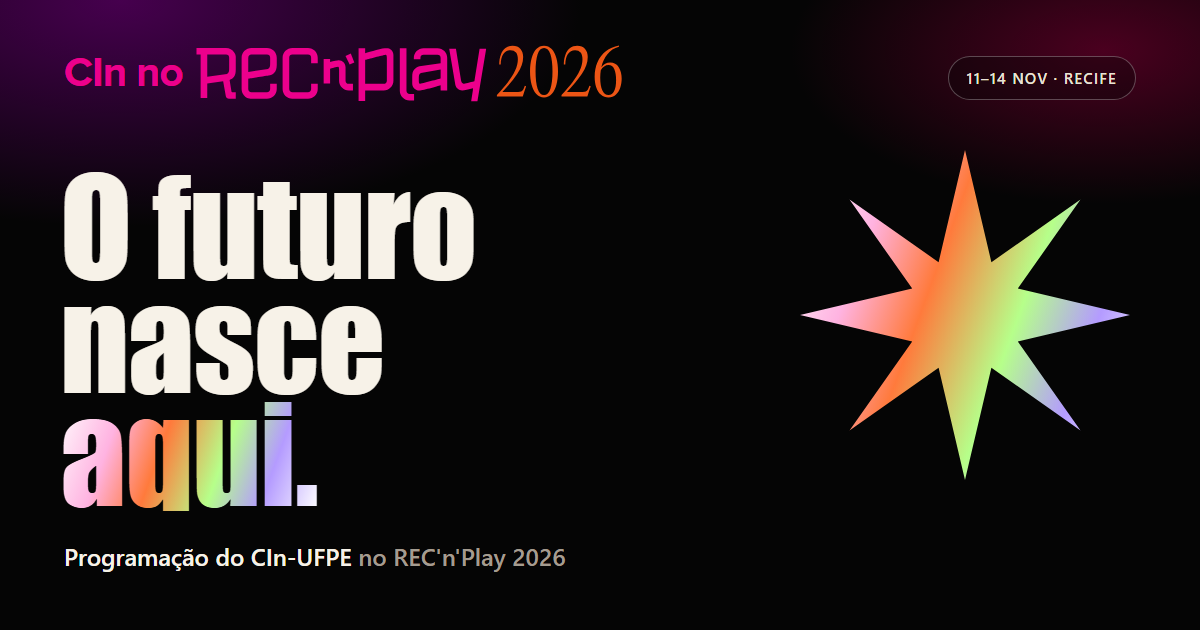
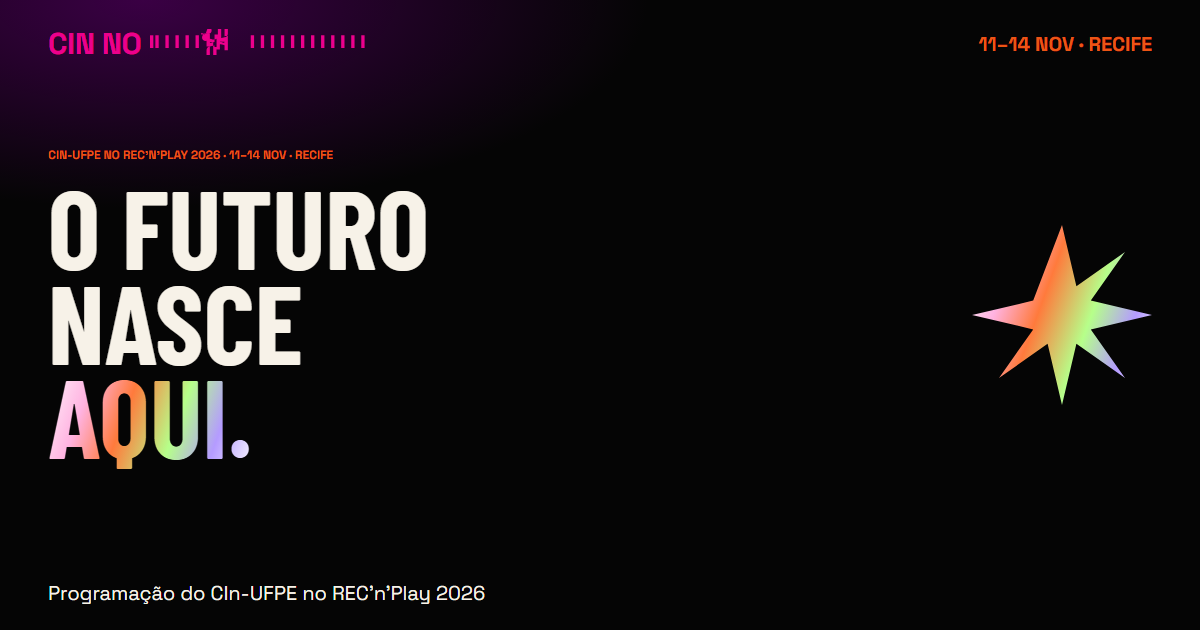
Alinha Supertalentos ao Jalan, corrige a noticia e refaz o og.png

diff --git a/cin-recplay-2026.js b/cin-recplay-2026.js
@@ -37,7 +37,8 @@
     { t:0, n:"O mar de possibilidades de uma carreira em tecnologia", p:["Letícia Pedrosa","Eduarda Santana","Byanca Silva","Karem Santos","Alany Siqueira"], h:"10:00–11:00", l:"CESAR School · Bloco A, Arquibancada", q:"Cesar School, Av. Cais do Apolo, 77, Recife - PE", g:["Carreira","Tecnologia"], d:["12"] },
     { t:0, n:"TDC Stage: adoção, cultura e letramento em IA — e se Chico Science encontrasse a inteligência artificial?", p:["Aguinaldo Flor"], h:"11:35", l:"Moinho Recife · Sala Manguezal", q:"Moinho Recife, Av. Alfredo Lisboa, 810, Recife - PE", g:["IA","Cultura"], d:["11"] },
     { t:0, n:"Construindo tecnologias de ponta: desmistificando a relação entre pós-graduação e o mercado", p:["Francisco Simões","Thifany Souza","André Buarque","Willams Costa","João Moizes"], h:"15:40–16:40", l:"E.T.E. Porto Digital · Sala 4", q:"E.T.E. Porto Digital, Av. Rio Branco, 193, Recife - PE", g:["Carreira","Pesquisa"], d:["12"] },
-    { t:0, n:"Programa Supertalentos: educação para superdotados", p:["Paulo Adeodato","Pierre Lucena","Olzeni Ribeiro","Ricardo Matheus","Carla Brolezzi"], h:"13:00–14:00", l:"Arena de Educação CESAR · Palco Externo", q:"Arena de Educação CESAR, Rua Bione, Cais do Apolo, 220, Recife - PE", g:["Educação","Inovação"], d:["12"] },
+    { t:0, n:"Supertalentos: iniciativas de apoio a jovens superdotados", p:["Paulo Adeodato","Pierre Lucena","Olzeni Ribeiro","Ricardo Matheus","Carla Brolezzi"], h:"13:00–14:00", l:"Arena de Educação CESAR · Palco Externo", q:"Arena de Educação CESAR, Rua Bione, Cais do Apolo, 220, Recife - PE", g:["Educação","Inovação"], d:["12"] },
+    { t:0, n:"Jovens supertalentos em ação: projetos de macroalgas e tecnologia", p:["Estudantes do Programa Supertalentos","Especialistas do SENAC-PE","UFPE"], h:"14:20–16:20", l:"Arena de Educação CESAR · Mezanino", q:"Arena de Educação CESAR, Rua Bione, Cais do Apolo, 220, Recife - PE", g:["Educação","Ciência"], d:["12"] },
     { t:0, n:"Mostra Supertalentos: ciência, tecnologia e resultados em exposição", p:["Paulo Adeodato","Severino Alves Júnior","Bruno Campello de Souza","Starch Melo de Souza","Ana de Cássia Monteiro de Lemos Silva","Jessica Acioly dos Santos"], h:"09:00–12:40", l:"Senac · Galeria", q:"Senac, R. do Apolo, 235, Recife - PE", g:["Educação","Ciência"], d:["13"] },
     { t:0, n:"Copiloto ou piloto? Até onde a IA pode pensar no lugar de quem programa", p:["Kiev Gama","Vinícius Garcia","Rodrigo Bonifácio","Paola Accioly"], h:"10:00–11:00", l:"E.T.E. Porto Digital · Sala 3", q:"E.T.E. Porto Digital, Av. Rio Branco, 193, Recife - PE", g:["IA","Engenharia de Software"], d:["13"] },
     { t:0, n:"Dirigindo entre dois mundos: experiências automotivas do futuro", p:["Francisco Simões","João Marcelo Teixeira","João Moizes"], h:"10:00–11:00", l:"Espaço CIn-UFPE", q:"Espaço CIn-UFPE, R. Vig. Tenório, 95, Recife - PE", g:["Mobilidade","Tecnologia"], d:["13"] },
@@ -76,11 +77,11 @@
       x:"O CIn-UFPE apresentará o Programa Supertalentos no REC’n’Play 2026, com debate, pitches e mostra nos dias 12 e 13 de novembro.",
       html:`<p>O Centro de Informática (CIn) da Universidade Federal de Pernambuco (UFPE) colocará o desenvolvimento de estudantes com superdotação intelectual em pauta no REC’n’Play 2026. Nos dias 12 e 13 de novembro, a instituição apresentará o Programa Supertalentos, conduzido pela UFPE, coordenado pelo CIn, em parceria com o Serviço Nacional de Aprendizagem Comercial em Pernambuco (SENAC-PE), o fundo Social Entrepreneurship Holding Ltda. e a AppCETech, empresa deep tech do Porto Digital.</p>
 <p>O Programa Supertalentos promove formação científica gratuita nas áreas de Ciência, Tecnologia, Engenharia e Matemática (STEM), com atividades de pesquisa, desenvolvimento e inovação. A iniciativa busca desenvolver as competências dos participantes e ampliar suas oportunidades de formação e carreira. O programa também oferece acompanhamento psicopedagógico, voltado às necessidades educacionais e emocionais dos participantes.</p>
-<p>No dia 12 de novembro, das 13h às 14h, na Arena de Educação CESAR - Garagem 01, o professor Paulo Adeodato (CIn-UFPE) participará do debate “Supertalentos: iniciativas de apoio a jovens superdotados”, ao lado de Pierre Lucena (Porto Digital), Olzeni Ribeiro (Instituto do Neurodesenvolvimento), do professor Ricardo D’Elias Matheus (Instituto Principia) e de Carla Brolezzi (Superdotação no Mapa).</p>
-<p>Na sequência, das 14h20 às 16h20, na Arena de Educação CESAR - Mezanino, estudantes participantes do programa apresentarão pitches de soluções desenvolvidas nas áreas de macroalgas e tecnologia. Já no dia 13 de novembro, das 8h30 às 12h30, a Mostra Supertalentos reunirá demonstrações práticas de projetos, experimentos e resultados conduzidos pela equipe e pelos jovens do programa, na unidade Apolo 235 do SENAC-PE.</p>
+<p>No dia 12 de novembro, das 13h às 14h, na Arena de Educação CESAR - Palco Externo, o professor Paulo Adeodato (CIn-UFPE) participará do debate “Supertalentos: iniciativas de apoio a jovens superdotados”, ao lado de Pierre Lucena (Porto Digital), Olzeni Ribeiro (Instituto do Neurodesenvolvimento), do professor Ricardo D’Elias Matheus (Instituto Principia) e de Carla Brolezzi (Superdotação no Mapa).</p>
+<p>Na sequência, das 14h20 às 16h20, na Arena de Educação CESAR - Mezanino, estudantes participantes do programa apresentarão pitches de soluções desenvolvidas nas áreas de macroalgas e tecnologia. Já no dia 13 de novembro, das 9h às 12h40, a Mostra Supertalentos reunirá demonstrações práticas de projetos, experimentos e resultados conduzidos pela equipe e pelos jovens do programa, na Galeria do SENAC-PE, no Porto Digital.</p>
 <p>O professor Paulo Adeodato, do CIn-UFPE, base tecnológica do programa, ressalta que a universidade já atua como agente de desenvolvimento e geração de riqueza para Pernambuco. Segundo ele, iniciativas como o Programa Supertalentos podem contribuir para reter talentos e a riqueza patrimonial gerada no estado, podendo essa metodologia vir a ser replicada para reter os talentos e riqueza nos seus locais de origem.</p>
 <h2>Confira a programação</h2>
-<p><strong>12 de novembro | Arena de Educação CESAR - Garagem 01</strong></p>
+<p><strong>12 de novembro | Arena de Educação CESAR - Palco Externo</strong></p>
 <p><strong>Das 13h às 14h | Debate: Supertalentos: iniciativas de apoio a jovens superdotados</strong></p>
 <p>Com Pierre Lucena (Porto Digital), o professor Paulo Adeodato (CIn-UFPE), Olzeni Ribeiro (Instituto do Neurodesenvolvimento), o professor Ricardo D’Elias Matheus (Instituto Principia) e Carla Brolezzi (Superdotação no Mapa).</p>
 <p>Entrada com inscrição prévia.</p>
@@ -88,7 +89,7 @@
 <p><strong>Das 14h20 às 16h20 | Pitches: Jovens supertalentos em ação: projetos de macroalgas e tecnologia</strong></p>
 <p>Apresentação das soluções dos estudantes, com a presença de especialistas do SENAC-PE, da UFPE e da AppCETech.</p>
 <p>Acesso por ordem de chegada.</p>
-<p><strong>13 de novembro, das 8h30 às 12h30 | Apolo 235 (apoio do SENAC-PE)</strong></p>
+<p><strong>13 de novembro, das 9h às 12h40 | SENAC-PE - Galeria (Porto Digital)</strong></p>
 <p>Mostra Supertalentos: demonstração prática de projetos, experimentos e resultados conduzidos pela equipe e pelos jovens do programa.</p>
 <h2>Sobre o Programa Supertalentos</h2>
 <p>O Programa Supertalentos é uma iniciativa conduzida pela UFPE, coordenada pelo CIn-UFPE, em parceria com o SENAC-PE, o fundo Social Entrepreneurship Holding Ltda. e a AppCETech. Seu objetivo é identificar e acompanhar estudantes de 12 a 17 anos com indicadores de superdotação intelectual, oferecendo percursos de aprofundamento e acompanhamento pedagógico. Por meio da Aprendizagem Baseada em Projetos (PBL), os participantes desenvolvem atividades de pesquisa em STEM, com capacitação em métodos científicos e uso de inteligência artificial generativa.</p>

diff --git a/index.html b/index.html
@@ -20,8 +20,8 @@
 <meta property="og:title" content="CIn no REC'n'Play 2026">
 <meta property="og:description" content="Programação do CIn-UFPE no REC'n'Play 2026: 11 a 14 de novembro, no Recife. Atividades, palestrantes, horários e locais.">
 <meta property="og:url" content="https://recnplay.cin.ufpe.br/">
-<meta property="og:image" content="https://recnplay.cin.ufpe.br/og.png?v=2">
-<meta property="og:image:secure_url" content="https://recnplay.cin.ufpe.br/og.png?v=2">
+<meta property="og:image" content="https://recnplay.cin.ufpe.br/og.png?v=3">
+<meta property="og:image:secure_url" content="https://recnplay.cin.ufpe.br/og.png?v=3">
 <meta property="og:image:type" content="image/png">
 <meta property="og:image:width" content="1200">
 <meta property="og:image:height" content="630">
@@ -30,11 +30,11 @@
 <meta name="twitter:card" content="summary_large_image">
 <meta name="twitter:title" content="CIn no REC'n'Play 2026">
 <meta name="twitter:description" content="Programação do CIn-UFPE no REC'n'Play 2026: 11 a 14 de novembro, no Recife.">
-<meta name="twitter:image" content="https://recnplay.cin.ufpe.br/og.png?v=2">
+<meta name="twitter:image" content="https://recnplay.cin.ufpe.br/og.png?v=3">
 
 <style>html,body{margin:0;background:#050505}</style>
 </head>
 <body>
-<script src="cin-recplay-2026.js?v=20261110ay"></script>
+<script src="cin-recplay-2026.js?v=20261110az"></script>
 </body>
 </html>

diff --git a/noticias/supertalentos/index.html b/noticias/supertalentos/index.html
@@ -29,6 +29,6 @@
 <style>html,body{margin:0;background:#050505}</style>
 </head>
 <body>
-<script src="../../cin-recplay-2026.js?v=20261110ay"></script>
+<script src="../../cin-recplay-2026.js?v=20261110az"></script>
 </body>
 </html>
